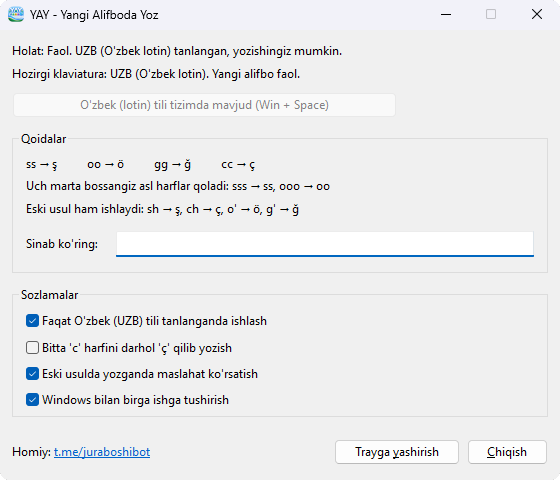
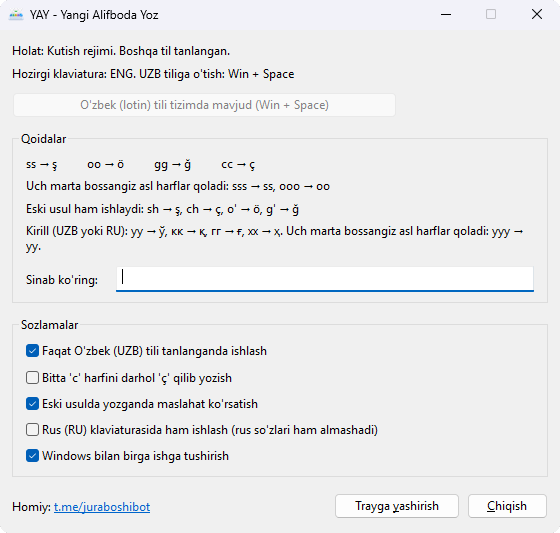
Add Cyrillic input: уу, кк, гг, хх give ў, қ, ғ, ҳ
Active on the Uzbek (Cyrillic) layout, and on the Russian layout when the new
checkbox is ticked. Same double and triple tap rules as the Latin letters.
The engine now has two rule profiles, and a new keymap unit asks Windows which
letter a key produces on the active layout.

diff --git a/src/dashboard.cpp b/src/dashboard.cpp
@@ -24,10 +24,11 @@ void ShowDashboard() {
 void UpdateDashboardUI() {
   if (!g_hMainWnd || !IsWindowVisible(g_hMainWnd)) return;
 
-  bool active = g_bEnabled && IsUzbekInputMethodActive();
-  const wchar_t *status = !g_bEnabled ? L"Holat: O'chirilgan (pauza). Yoqish uchun tray belgisini bosing."
-                        : active      ? L"Holat: Faol. UZB (O'zbek lotin) tanlangan, yozishingiz mumkin."
-                                      : L"Holat: Kutish rejimi. Boshqa til tanlangan.";
+  const ActiveProfile profile = g_bEnabled ? GetActiveProfile(NULL) : AP_NONE;
+  const wchar_t *status = !g_bEnabled            ? L"Holat: O'chirilgan (pauza). Yoqish uchun tray belgisini bosing."
+                        : profile == AP_LATIN    ? L"Holat: Faol. UZB (O'zbek lotin) tanlangan, yozishingiz mumkin."
+                        : profile == AP_CYRILLIC ? L"Holat: Faol. Kirill rejimi: ў қ ғ ҳ ni ikki marta bosib yozing."
+                                                 : L"Holat: Kutish rejimi. Boshqa til tanlangan.";
   SetTextIfChanged(g_hMainWnd, IDC_STATUS_TEXT, status);
 
   bool uzInstalled = IsUzbekLayoutInstalled();
@@ -49,12 +50,15 @@ void UpdateDashboardUI() {
   wchar_t buf[256];
   if (langId == 0x0443) {
     lstrcpynW(buf, L"Hozirgi klaviatura: UZB (O'zbek lotin). Yangi alifbo faol.", 256);
+  } else if (langId == 0x0843) {
+    lstrcpynW(buf, L"Hozirgi klaviatura: UZB (O'zbek kirill). ў қ ғ ҳ faol.", 256);
   } else if (PRIMARYLANGID(langId) == LANG_ENGLISH) {
     if (!uzInstalled)             lstrcpynW(buf, L"Hozirgi klaviatura: ENG. UZB tili tizimda yo'q, pastdagi tugmani bosing.", 256);
     else if (!g_bOnlyUzbekLayout) lstrcpynW(buf, L"Hozirgi klaviatura: ENG. YAY shu tilda ham ishlaydi.", 256);
     else                          lstrcpynW(buf, L"Hozirgi klaviatura: ENG. UZB tiliga o'tish: Win + Space", 256);
   } else if (PRIMARYLANGID(langId) == LANG_RUSSIAN) {
-    lstrcpynW(buf, L"Hozirgi klaviatura: RUS. Rus tiliga xalaqit bermaydi.", 256);
+    if (g_bCyrillicOnRussian) lstrcpynW(buf, L"Hozirgi klaviatura: RUS. YAY ў қ ғ ҳ uchun ishlaydi.", 256);
+    else                      lstrcpynW(buf, L"Hozirgi klaviatura: RUS. Rus tiliga xalaqit bermaydi.", 256);
   } else {
     wsprintfW(buf, L"Hozirgi klaviatura: 0x%04X. Tilni almashtirish: Win + Space", langId);
   }
@@ -103,6 +107,7 @@ INT_PTR CALLBACK DashboardDlgProc(HWND hDlg, UINT msg, WPARAM wParam, LPARAM lPa
     SetCheck(hDlg, IDC_CHK_ONLY_UZ, g_bOnlyUzbekLayout);
     SetCheck(hDlg, IDC_CHK_SINGLE_C, g_bInstantSingleC);
     SetCheck(hDlg, IDC_CHK_TIPS, g_bShowTips);
+    SetCheck(hDlg, IDC_CHK_CYR_RU, g_bCyrillicOnRussian);
     SetCheck(hDlg, IDC_CHK_STARTUP, IsInStartup());
     g_shellHookMsg = RegisterWindowMessageW(L"SHELLHOOK");
     g_taskbarCreatedMsg = RegisterWindowMessageW(L"TaskbarCreated");
@@ -122,6 +127,7 @@ INT_PTR CALLBACK DashboardDlgProc(HWND hDlg, UINT msg, WPARAM wParam, LPARAM lPa
     case IDC_CHK_ONLY_UZ:   g_bOnlyUzbekLayout = GetCheck(hDlg, id); SaveSettings(); UpdateTrayStatus(); return TRUE;
     case IDC_CHK_SINGLE_C:  g_bInstantSingleC = GetCheck(hDlg, id); SaveSettings(); return TRUE;
     case IDC_CHK_TIPS:      g_bShowTips = GetCheck(hDlg, id); SaveSettings(); return TRUE;
+    case IDC_CHK_CYR_RU:    g_bCyrillicOnRussian = GetCheck(hDlg, id); SaveSettings(); UpdateTrayStatus(); return TRUE;
     case IDC_CHK_STARTUP:   ToggleStartup(GetCheck(hDlg, id)); return TRUE;
     case IDC_BTN_HIDE:
     case IDCANCEL:          ShowWindow(hDlg, SW_HIDE); return TRUE;
@@ -149,6 +155,12 @@ INT_PTR CALLBACK DashboardDlgProc(HWND hDlg, UINT msg, WPARAM wParam, LPARAM lPa
     }
     return FALSE;
   }
+
+#ifdef YAY_ACCEPT_INJECTED
+  case WM_APP + 10:  // test builds only: switch this thread's keyboard layout (tests/e2e.ps1)
+    ActivateKeyboardLayout((HKL)lParam, 0);
+    return TRUE;
+#endif
 
   case WM_LAYOUT_INSTALL_DONE:
     UpdateTrayStatus();

diff --git a/src/layout.cpp b/src/layout.cpp
@@ -1,17 +1,30 @@
 #include "app.h"
 
-// True when YAY should act on keys going to the foreground window.
-// Strict mode: only Uzbek Latin (0x0443). Permissive mode: Uzbek Latin or English.
-// Russian, Uzbek Cyrillic and every other layout are always left alone.
-bool IsUzbekInputMethodActive() {
-  if (!g_bEnabled) return false;
+// Decides which alphabet applies to keys going to the foreground window.
+//   Uzbek Latin (0x0443)                 -> Latin rules
+//   English, unless strict mode is on    -> Latin rules
+//   Uzbek Cyrillic (0x0843)              -> Cyrillic rules
+//   Russian, only if the option is on    -> Cyrillic rules
+// Every other layout is left alone.
+ActiveProfile GetActiveProfile(HKL *outLayout) {
+  if (outLayout) *outLayout = NULL;
+  if (!g_bEnabled) return AP_NONE;
   HWND hFg = GetForegroundWindow();
   DWORD tid = hFg ? GetWindowThreadProcessId(hFg, NULL) : 0;
-  WORD langId = LOWORD((DWORD_PTR)GetKeyboardLayout(tid));
+  HKL hkl = GetKeyboardLayout(tid);
+  if (outLayout) *outLayout = hkl;
+  WORD langId = LOWORD((DWORD_PTR)hkl);
   WORD primary = PRIMARYLANGID(langId);
-  if (langId == 0x0443 || (primary == LANG_UZBEK && SUBLANGID(langId) == SUBLANG_UZBEK_LATIN)) return true;
-  if (g_bOnlyUzbekLayout) return false;
-  return primary == LANG_ENGLISH;
+  WORD sub = SUBLANGID(langId);
+  if (langId == 0x0443 || (primary == LANG_UZBEK && sub == SUBLANG_UZBEK_LATIN)) return AP_LATIN;
+  if (langId == 0x0843 || (primary == LANG_UZBEK && sub == SUBLANG_UZBEK_CYRILLIC)) return AP_CYRILLIC;
+  if (primary == LANG_RUSSIAN) return g_bCyrillicOnRussian ? AP_CYRILLIC : AP_NONE;
+  if (!g_bOnlyUzbekLayout && primary == LANG_ENGLISH) return AP_LATIN;
+  return AP_NONE;
+}
+
+bool IsUzbekInputMethodActive() {
+  return GetActiveProfile(NULL) != AP_NONE;
 }
 
 bool IsUzbekLayoutInstalled() {

diff --git a/tests/test_keymap.cpp b/tests/test_keymap.cpp
@@ -1,0 +1,52 @@
+// Checks CyrillicCharForKey against the Russian keyboard layout that ships with Windows.
+// Build and run with build.cmd.
+#include "../src/keymap.h"
+#include <stdio.h>
+
+static int g_failures = 0;
+
+struct Case {
+  UINT vk;
+  bool upper;
+  wchar_t want;
+  const char *name;
+};
+
+int main() {
+  printf("keymap tests\n");
+  HKL ru = LoadKeyboardLayoutW(L"00000419", 0);
+  if (!ru) {
+    printf("  skipped: Russian layout is not available\n");
+    return 0;
+  }
+
+  const Case cases[] = {
+    { 'E',       false, 0x0443, "E -> u" },
+    { 'E',       true,  0x0423, "Shift+E -> U" },
+    { 'R',       false, 0x043A, "R -> k" },
+    { 'R',       true,  0x041A, "Shift+R -> K" },
+    { 'U',       false, 0x0433, "U -> g" },
+    { 'U',       true,  0x0413, "Shift+U -> G" },
+    { VK_OEM_4,  false, 0x0445, "[ -> kh" },
+    { VK_OEM_4,  true,  0x0425, "Shift+[ -> KH" },
+    { 'A',       false, 0x0444, "A -> ef" },
+    { VK_SPACE,  false, 0,      "Space -> nothing" },
+    { '1',       false, 0,      "1 -> nothing" },
+    { VK_RETURN, false, 0,      "Enter -> nothing" },
+  };
+
+  for (unsigned i = 0; i < sizeof(cases) / sizeof(cases[0]); i++) {
+    UINT scan = MapVirtualKeyExW(cases[i].vk, MAPVK_VK_TO_VSC, ru);
+    wchar_t got = CyrillicCharForKey(cases[i].vk, scan, cases[i].upper, ru);
+    if (got == cases[i].want) {
+      printf("  ok    %s\n", cases[i].name);
+    } else {
+      g_failures++;
+      printf("  FAIL  %s: expected U+%04X got U+%04X\n", cases[i].name, (unsigned)cases[i].want, (unsigned)got);
+    }
+  }
+
+  if (g_failures) printf("%d FAILED\n", g_failures);
+  else printf("all passed\n");
+  return g_failures ? 1 : 0;
+}

diff --git a/src/hook.cpp b/src/hook.cpp
@@ -21,7 +21,12 @@ LRESULT CALLBACK LowLevelKeyboardProc(int nCode, WPARAM wParam, LPARAM lParam) {
 #else
   const bool skipInjected = (k->flags & LLKHF_INJECTED) != 0;
 #endif
-  if (!isDown || skipInjected || !IsUzbekInputMethodActive())
+  if (!isDown || skipInjected)
+    return CallNextHookEx(g_hHook, nCode, wParam, lParam);
+
+  HKL layout = NULL;
+  const ActiveProfile profile = GetActiveProfile(&layout);
+  if (profile == AP_NONE)
     return CallNextHookEx(g_hHook, nCode, wParam, lParam);
 
   const DWORD vk = k->vkCode;
@@ -31,6 +36,10 @@ LRESULT CALLBACK LowLevelKeyboardProc(int nCode, WPARAM wParam, LPARAM lParam) {
     kind = EK_MODIFIER;
   } else if (wParam == WM_SYSKEYDOWN || KeyHeld(VK_CONTROL) || KeyHeld(VK_MENU) || KeyHeld(VK_LWIN) || KeyHeld(VK_RWIN)) {
     kind = EK_COMBO;
+  } else if (profile == AP_CYRILLIC) {
+    // Ask Windows which letter this key produces on the active layout.
+    ch = CyrillicCharForKey(vk, k->scanCode, IsCapsActive(), layout);
+    kind = ch ? EK_LETTER : EK_OTHER;
   } else if (vk >= 'A' && vk <= 'Z') {
     kind = EK_LETTER;
     ch = IsCapsActive() ? (wchar_t)vk : (wchar_t)(vk + 32);
@@ -40,9 +49,10 @@ LRESULT CALLBACK LowLevelKeyboardProc(int nCode, WPARAM wParam, LPARAM lParam) {
     kind = EK_OTHER;
   }
 
+  EngineSetProfile(&g_engine, profile == AP_CYRILLIC ? EP_CYRILLIC : EP_LATIN);
   if (kind != EK_MODIFIER) HidePill();
 
-  if (g_bInstantSingleC && kind == EK_LETTER && (ch == L'c' || ch == L'C')) {
+  if (profile == AP_LATIN && g_bInstantSingleC && kind == EK_LETTER && (ch == L'c' || ch == L'C')) {
     EngineReset(&g_engine);
     SendBackspaceAndChars(0, ch == L'C' ? L"Ç" : L"ç");
     return 1;

diff --git a/src/app.h b/src/app.h
@@ -23,6 +23,7 @@
 
 #include "../res/resource.h"
 #include "engine.h"
+#include "keymap.h"
 
 // Private window messages. WM_USER+n is reserved by the dialog manager (DM_SETDEFID), so use WM_APP.
 #define WM_TRAYICON            (WM_APP + 1)
@@ -53,6 +54,7 @@ extern bool        g_bEnabled;
 extern bool        g_bOnlyUzbekLayout;
 extern bool        g_bInstantSingleC;
 extern bool        g_bShowTips;
+extern bool        g_bCyrillicOnRussian;  // also act on the Russian layout (Cyrillic profile)
 extern bool        g_bSendingInput;
 extern bool        g_bWin7PreloadWritten;
 extern EngineState g_engine;
@@ -68,7 +70,10 @@ void SendBackspaceAndChars(int backspaces, const wchar_t *chars);
 bool IsCapsActive();
 
 // layout.cpp
-bool IsUzbekInputMethodActive();
+// What YAY does with keys going to the foreground window right now.
+enum ActiveProfile { AP_NONE, AP_LATIN, AP_CYRILLIC };
+ActiveProfile GetActiveProfile(HKL *outLayout);
+bool IsUzbekInputMethodActive();  // true unless GetActiveProfile() is AP_NONE
 bool IsUzbekLayoutInstalled();
 bool IsWindows8OrGreaterReal();
 void TriggerAddUzbekLayout();

diff --git a/src/main.cpp b/src/main.cpp
@@ -14,6 +14,7 @@ bool        g_bEnabled          = true;
 bool        g_bOnlyUzbekLayout  = true;
 bool        g_bInstantSingleC   = false;
 bool        g_bShowTips         = true;
+bool        g_bCyrillicOnRussian = false;
 bool        g_bSendingInput     = false;
 bool        g_bWin7PreloadWritten = false;
 EngineState g_engine            = {ER_NONE, 0, {0, 0}, 0, DOUBLE_TAP_MS};
@@ -56,6 +57,7 @@ int WINAPI wWinMain(HINSTANCE hInstance, HINSTANCE, PWSTR, int) {
   LoadSettings();
 #ifdef YAY_ACCEPT_INJECTED
   g_bOnlyUzbekLayout = false;   // test build: work on the English layout
+  g_bCyrillicOnRussian = true;  // test build: also work on the Russian layout
 #endif
 
   INITCOMMONCONTROLSEX icex = { sizeof(icex), ICC_STANDARD_CLASSES | ICC_LINK_CLASS };

diff --git a/src/settings.cpp b/src/settings.cpp
@@ -21,6 +21,7 @@ void LoadSettings() {
   ReadBool(hKey, L"OnlyUzbek", &g_bOnlyUzbekLayout);
   ReadBool(hKey, L"SingleC", &g_bInstantSingleC);
   ReadBool(hKey, L"ShowTips", &g_bShowTips);
+  ReadBool(hKey, L"CyrillicOnRussian", &g_bCyrillicOnRussian);
   RegCloseKey(hKey);
 }
 
@@ -30,6 +31,7 @@ void SaveSettings() {
   WriteBool(hKey, L"OnlyUzbek", g_bOnlyUzbekLayout);
   WriteBool(hKey, L"SingleC", g_bInstantSingleC);
   WriteBool(hKey, L"ShowTips", g_bShowTips);
+  WriteBool(hKey, L"CyrillicOnRussian", g_bCyrillicOnRussian);
   RegCloseKey(hKey);
 }
 

diff --git a/src/keymap.h b/src/keymap.h
@@ -1,0 +1,8 @@
+#pragma once
+#include <windows.h>
+
+// Returns the Cyrillic letter that key `vk` produces on keyboard layout `hkl`
+// (upper or lower case as asked), or 0 if the key does not produce a single Cyrillic letter.
+// Used on the Russian and Uzbek (Cyrillic) layouts, which have no dead keys, so asking Windows
+// for the character does not disturb any typing state.
+wchar_t CyrillicCharForKey(UINT vk, UINT scanCode, bool upper, HKL hkl);

diff --git a/src/keymap.cpp b/src/keymap.cpp
@@ -1,0 +1,10 @@
+#include "keymap.h"
+
+wchar_t CyrillicCharForKey(UINT vk, UINT scanCode, bool upper, HKL hkl) {
+  BYTE state[256] = {0};
+  if (upper) state[VK_SHIFT] = 0x80;
+  wchar_t buf[4] = {0};
+  int n = ToUnicodeEx(vk, scanCode, state, buf, 4, 0, hkl);
+  if (n == 1 && buf[0] >= 0x0400 && buf[0] <= 0x04FF) return buf[0];
+  return 0;
+}

diff --git a/res/resource.h b/res/resource.h
@@ -23,6 +23,8 @@
 #define IDC_CHK_TIPS           3016
 #define IDC_CHK_STARTUP        3003
 #define IDC_SPONSOR            3017
+#define IDC_RULE4              3018
+#define IDC_CHK_CYR_RU         3019
 #define IDC_BTN_HIDE           3004
 #define IDC_BTN_EXIT           3005
 

diff --git a/README.md b/README.md
@@ -2,9 +2,9 @@
 
 ![YAY oynasi / YAY window](docs/dashboard.png)
 
-**YAY** o'zbek lotin alifbosining yangi harflarini (ş, ç, ö, ğ) oddiy klaviaturada yozish uchun kichik Windows dasturi. U tizim patnisida ishlaydi va faqat Win + Space bilan O'zbek (lotin) klaviaturasi tanlanganda harflarni almashtiradi. Ingliz va rus klaviaturalariga tegmaydi.
+**YAY** o'zbek lotin alifbosining yangi harflarini (ş, ç, ö, ğ) oddiy klaviaturada yozish uchun kichik Windows dasturi. U tizim patnisida ishlaydi va faqat O'zbek (lotin) yoki O'zbek (kirill) klaviaturasi tanlanganda harflarni almashtiradi (Win + Space). Ingliz klaviaturasiga tegmaydi. Rus klaviaturasiga faqat sozlamada yoqsangiz tegadi.
 
-**YAY** is a small Windows program for typing the new Uzbek Latin letters (ş, ç, ö, ğ) on a regular keyboard. It runs in the tray and only acts while the Uzbek (Latin) keyboard layout is selected with Win + Space. English and Russian layouts are left alone.
+**YAY** is a small Windows program for typing the new Uzbek Latin letters (ş, ç, ö, ğ) on a regular keyboard. It runs in the tray and only acts while the Uzbek (Latin) or Uzbek (Cyrillic) keyboard layout is selected (Win + Space). The English layout is left alone, and the Russian layout is only used if you turn it on in the settings.
 
 Homiy / Sponsor: [t.me/juraboshibot](https://t.me/juraboshibot)
 
@@ -24,6 +24,21 @@ Homiy / Sponsor: [t.me/juraboshibot](https://t.me/juraboshibot)
 - Dastur oynasida "Bitta 'c' harfini darhol 'ç' qilib yozish" sozlamasi bor.
 
 Tap the same letter twice quickly to get the new letter: `ss` → ş. If you need the plain double letter (*Rossiya*, *issiq*), tap a third time: `sss` → `ss`. Further taps stay plain: `ssss` → `sss`. "Quickly" means about 0.35 seconds. The legacy forms (`sh`, `ch`, `o'`, `g'`) have no time limit. Enter, Tab and Escape are never touched. For words with ş followed by s (*işsiz*, *tuşsa*), type `sh` + `s`, or pause briefly before the last `s`.
+
+### Kirill / Cyrillic
+
+O'zbek kirill alifbosining ў, қ, ғ, ҳ harflari rus klaviaturasida yo'q. YAY ularni xuddi shu usulda beradi. Bu O'zbek (kirill) klaviaturasi tanlanganda o'zi ishlaydi. Rus (RU) klaviaturasida esa dastur oynasida "Rus (RU) klaviaturasida ham ishlash" belgilansa ishlaydi, chunki rus tilida yozganda ham ishlatiladi.
+
+| Harf / Letter | Tez usul / Fast | Oddiy ikki harf / Plain double |
+| :---: | :---: | :---: |
+| ў Ў | `уу` `УУ` | `ууу` → `уу` |
+| қ Қ | `кк` `КК` | `ккк` → `кк` |
+| ғ Ғ | `гг` `ГГ` | `ггг` → `гг` |
+| ҳ Ҳ | `хх` `ХХ` | `ххх` → `хх` |
+
+Qoidalar lotin bilan bir xil. Eslatma: *икки* so'zini `иккки` deb yozing (`кк` қ ga aylanadi). Rus (RU) da yoqilgan bo'lsa, rus so'zlaridagi `кк`, `уу` (*аккорд*, *вакуум*) ham almashadi, ularni ham uch marta bosib yozing.
+
+The Cyrillic Uzbek letters ў, қ, ғ, ҳ are not on a Russian keyboard. YAY gives them the same way: double tap, triple tap to get the plain letters. It is active on its own while the Uzbek (Cyrillic) layout is selected. On the Russian (RU) layout it is active only if you tick "Rus (RU) klaviaturasida ham ishlash" in the program window, because you may also use that layout to write real Russian. With it on, Russian words with `кк` or `уу` (*аккорд*, *вакуум*) are converted too, and you tap a third time to undo. Type *икки* as `иккки`.
 
 ## O'rnatish / Install
 

diff --git a/CONTRIBUTING.md b/CONTRIBUTING.md
@@ -10,7 +10,8 @@ See [README.md](README.md). In short: `build.cmd` runs the engine tests and buil
 
 ## Where things are
 
-- `src/engine.cpp`: the typing rules. It has no Win32 calls, so it is tested directly by `tests/test_engine.cpp`.
+- `src/engine.cpp`: the typing rules for the Latin and Cyrillic alphabets. It has no Win32 calls, so it is tested directly by `tests/test_engine.cpp`.
+- `src/keymap.cpp`: asks Windows which Cyrillic letter a key produces on the active layout (`tests/test_keymap.cpp`).
 - `src/hook.cpp`: turns keyboard events into engine input and sends the replacement.
 - `src/dashboard.cpp`, `src/tray.cpp`, `src/pill.cpp`: the window, the tray icon and the small hint popup.
 - `src/layout.cpp`: keyboard layout detection and adding the Uzbek layout.
